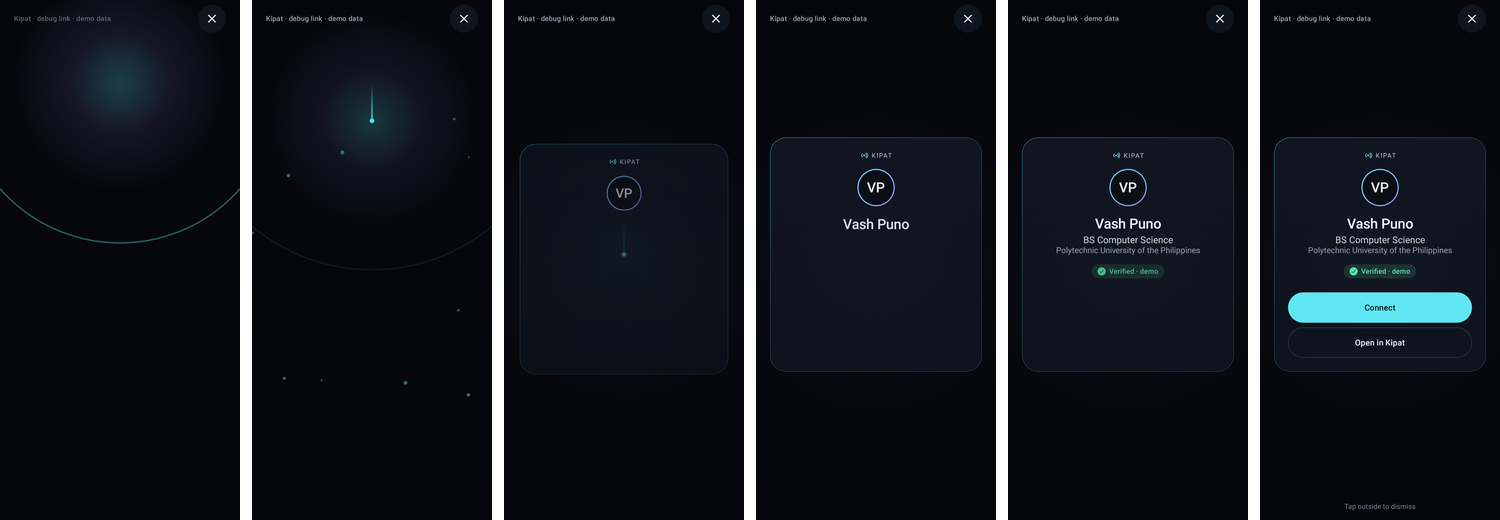
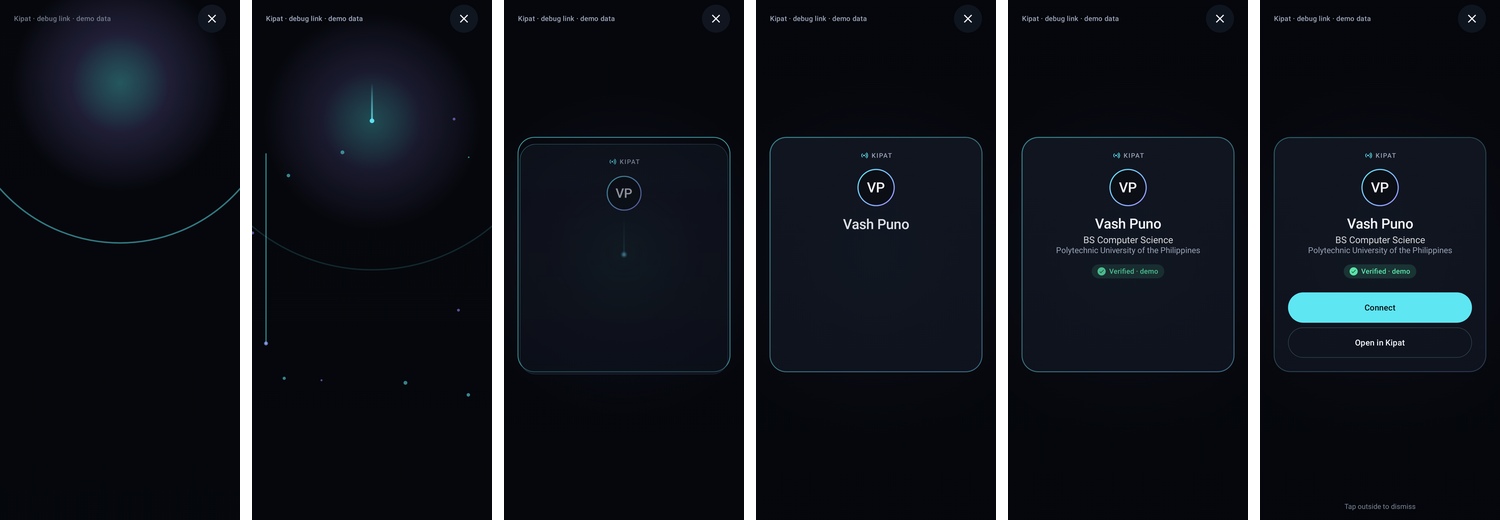
feat(reveal): adopt progressive scrim and outline trace from the reference
The scrim now fades in to 60% and deepens with the card surface, so the
app underneath stays legible at the moment of the tap. Signature traces
the card's final outline with a soft light and bright head before the
glass fills in, reusing the Line Trace primitive via a new
RevealConfig.perimeterTrace (off for reduced motion). Timings stay at
the spec targets. Docs and native render strip updated.

Claude-Session: https://claude.ai/code/session_014gtnW3oi4wPSe5yKbAtHfW

diff --git a/app/src/main/java/com/kipat/probe/reveal/RevealTemplate.kt b/app/src/main/java/com/kipat/probe/reveal/RevealTemplate.kt
@@ -86,6 +86,8 @@ data class RevealConfig(
     val glowStrength: Float,
     val drip: Boolean,
     val surfaceEntrance: SurfaceEntrance,
+    /** Strength (0 = off) of the light that traces the card outline before the glass fills in. */
+    val perimeterTrace: Float = 0f,
 ) {
     companion object {
         const val MAX_PARTICLES = 56
@@ -96,14 +98,14 @@ data class RevealConfig(
                 return RevealConfig(template, RevealTimeline.REDUCED, 0, 0, ParticleMotion.NONE, 0.25f, false, SurfaceEntrance.FADE)
             }
             val base = when (template) {
-                RevealTemplateId.SIGNATURE_DRIP -> RevealConfig(template, RevealTimeline.SIGNATURE, 2, 44, ParticleMotion.CONVERGE, 1f, true, SurfaceEntrance.RISE)
+                RevealTemplateId.SIGNATURE_DRIP -> RevealConfig(template, RevealTimeline.SIGNATURE, 2, 44, ParticleMotion.CONVERGE, 1f, true, SurfaceEntrance.RISE, perimeterTrace = 0.55f)
                 RevealTemplateId.PARTICLE_BLOOM -> RevealConfig(template, RevealTimeline.SIGNATURE, 1, MAX_PARTICLES, ParticleMotion.BLOOM, 0.85f, false, SurfaceEntrance.RISE)
                 RevealTemplateId.MINIMAL_FADE -> RevealConfig(template, RevealTimeline.MINIMAL, 0, 0, ParticleMotion.NONE, 0.35f, false, SurfaceEntrance.FADE)
                 RevealTemplateId.RIPPLE -> RevealConfig(template, RevealTimeline.SIGNATURE, 3, 0, ParticleMotion.NONE, 0.7f, false, SurfaceEntrance.RISE)
                 RevealTemplateId.ORBIT -> RevealConfig(template, RevealTimeline.SIGNATURE, 1, 24, ParticleMotion.ORBIT, 0.8f, false, SurfaceEntrance.RISE)
                 RevealTemplateId.SOFT_GLOW -> RevealConfig(template, RevealTimeline.SIGNATURE, 0, 0, ParticleMotion.NONE, 1f, false, SurfaceEntrance.FADE)
                 RevealTemplateId.LIQUID_LOGO -> RevealConfig(template, RevealTimeline.SIGNATURE, 1, 0, ParticleMotion.NONE, 0.8f, true, SurfaceEntrance.LIQUID)
-                RevealTemplateId.LINE_TRACE -> RevealConfig(template, RevealTimeline.SIGNATURE, 0, 0, ParticleMotion.NONE, 0.5f, false, SurfaceEntrance.TRACE)
+                RevealTemplateId.LINE_TRACE -> RevealConfig(template, RevealTimeline.SIGNATURE, 0, 0, ParticleMotion.NONE, 0.5f, false, SurfaceEntrance.TRACE, perimeterTrace = 0.9f)
                 RevealTemplateId.PIXEL_BUILD -> RevealConfig(template, RevealTimeline.SIGNATURE, 0, 36, ParticleMotion.GRID, 0.5f, false, SurfaceEntrance.FADE)
                 RevealTemplateId.CONSTELLATION -> RevealConfig(template, RevealTimeline.SIGNATURE, 0, 18, ParticleMotion.CONSTELLATION, 0.6f, false, SurfaceEntrance.RISE)
             }

diff --git a/app/src/main/java/com/kipat/probe/reveal/effects/RevealEffects.kt b/app/src/main/java/com/kipat/probe/reveal/effects/RevealEffects.kt
@@ -78,7 +78,7 @@ object RevealEffects {
             ParticleMotion.CONSTELLATION -> drawConstellation(frame, geo, particles, config.particleCount, primary, secondary)
         }
         if (tracePath != null && traceMeasure != null && traceSegment != null) {
-            drawTrace(frame, traceMeasure, traceSegment, primary)
+            drawTrace(frame, config.perimeterTrace, traceMeasure, traceSegment, primary, secondary)
         }
     }
 
@@ -230,14 +230,24 @@ object RevealEffects {
         }
     }
 
-    /** Line Trace: a single stroke traces the card outline. Path objects are reused. */
-    private fun DrawScope.drawTrace(frame: RevealFrame, measure: PathMeasure, segment: Path, color: Color) {
+    /**
+     * Light tracing the card outline (Line Trace, and a softer version in Signature). The bright
+     * head is the "sparkle outline" from the Higgsfield reference. Path objects are reused.
+     */
+    private fun DrawScope.drawTrace(frame: RevealFrame, strength: Float, measure: PathMeasure, segment: Path, primary: Color, secondary: Color) {
         val p = frame.particles.coerceAtLeast(frame.surface)
-        if (p <= 0f) return
+        if (p <= 0f || strength <= 0f) return
+        val alpha = strength * (1f - 0.7f * frame.cta)
+        if (alpha <= 0.01f) return
         segment.reset()
         val len = measure.length
         measure.getSegment(0f, len * p, segment, true)
-        drawPath(segment, color.copy(alpha = 0.9f * (1f - 0.6f * frame.cta)), style = Stroke(width = 2f * density, cap = StrokeCap.Round))
+        drawPath(segment, primary.copy(alpha = alpha), style = Stroke(width = 1.5f * density, cap = StrokeCap.Round))
+        if (p < 1f) {
+            val head = measure.getPosition(len * p)
+            drawCircle(secondary.copy(alpha = alpha), 3.5f * density, head)
+            drawCircle(primary.copy(alpha = alpha), 1.8f * density, head)
+        }
     }
 
     private fun lerp(a: Offset, b: Offset, t: Float) = Offset(a.x + (b.x - a.x) * t, a.y + (b.y - a.y) * t)

diff --git a/app/src/main/java/com/kipat/probe/reveal/RevealScreen.kt b/app/src/main/java/com/kipat/probe/reveal/RevealScreen.kt
@@ -125,9 +125,9 @@ fun RevealScreen(
 
     var cardRect by remember { mutableStateOf<Rect?>(null) }
     val density = LocalDensity.current
-    val trace = remember(cardRect, config.surfaceEntrance) {
+    val trace = remember(cardRect, config.perimeterTrace) {
         val r = cardRect
-        if (config.surfaceEntrance == SurfaceEntrance.TRACE && r != null) {
+        if (config.perimeterTrace > 0f && r != null) {
             val path = Path().apply { addRoundRect(RoundRect(r, CornerRadius(with(density) { 28.dp.toPx() }))) }
             Triple(path, PathMeasure().apply { setPath(path, false) }, Path())
         } else {
@@ -155,7 +155,10 @@ fun RevealScreen(
     ) {
         // Scrim + effects: the previous app stays faintly visible underneath.
         Canvas(Modifier.fillMaxSize()) {
-            val scrim = (elapsedMs / 180f).coerceIn(0f, 1f)
+            // Scrim fades in fast, then deepens as the card resolves, so the app underneath stays
+            // legible at the moment of the tap (adopted from the Higgsfield reference).
+            val settle = RevealEngine.frameAt(elapsedMs, timeline).surface
+            val scrim = (elapsedMs / 180f).coerceIn(0f, 1f) * (0.6f + 0.4f * settle)
             drawRect(Brush.verticalGradient(listOf(palette.scrimTop, palette.scrimBottom)), alpha = scrim)
             val rect = cardRect ?: return@Canvas
             val geo = RevealGeometry(

diff --git a/app/src/test/java/com/kipat/probe/RevealTemplateTest.kt b/app/src/test/java/com/kipat/probe/RevealTemplateTest.kt
@@ -70,7 +70,15 @@ class RevealTemplateTest {
             assertEquals(ParticleMotion.NONE, c.particleMotion)
             assertEquals(SurfaceEntrance.FADE, c.surfaceEntrance)
             assertEquals(RevealTimeline.REDUCED, c.timeline)
+            assertEquals(0f, c.perimeterTrace, 0f)
         }
+    }
+
+    @Test
+    fun signatureTracesTheCardOutline() {
+        assertTrue(RevealConfig.forTemplate(RevealTemplateId.SIGNATURE_DRIP).perimeterTrace > 0f)
+        assertTrue(RevealConfig.forTemplate(RevealTemplateId.LINE_TRACE).perimeterTrace > 0f)
+        assertEquals(0f, RevealConfig.forTemplate(RevealTemplateId.MINIMAL_FADE).perimeterTrace, 0f)
     }
 
     @Test

diff --git a/docs/reveal.md b/docs/reveal.md
@@ -27,7 +27,7 @@ primary/secondary CTA labels, connectable.
 
 | Template | Implementation |
 |---|---|
-| Signature · Drip | **Full** — glow, 2 ripples, drip bead, 44 converging particles, rise entrance |
+| Signature · Drip | **Full** — glow, 2 ripples, drip bead, 44 converging particles, soft outline trace, rise entrance |
 | Particle Bloom | **Full** — outward bloom settling into a halo |
 | Minimal Fade | **Full** — fast fade timeline, no particles |
 | Ripple, Orbit, Soft Glow, Liquid Logo, Line Trace, Pixel Build, Constellation | Parameterised on the same primitives (`RevealConfig`) |
@@ -38,7 +38,7 @@ All templates share `effects/RevealEffects.kt`; there are no per-template engine
 
 | ms | Beat |
 |---|---|
-| 0 | first frame: scrim, glow, ripple; start haptic |
+| 0 | first frame: scrim (60%, deepening as the card resolves), glow, ripple; start haptic |
 | 200 | glow peak, particles begin |
 | 600 | card surface + avatar |
 | 900 | name |

diff --git a/README.md b/README.md
@@ -79,10 +79,10 @@ More: [`docs/architecture.md`](docs/architecture.md).
 
 ## Design references (Higgsfield)
 
-Prompts, the credit-guarded generation script and implementation notes are in
-[`design/higgsfield/`](design/higgsfield/). **No Higgsfield generation has been run yet** — the
-CLI login could not be completed from the cloud build container. The Reveal was built natively
-from the written brief; Higgsfield output is art direction only and is never the runtime.
+[`design/higgsfield/`](design/higgsfield/) holds the brief, exact prompts, the credit-guarded
+script, the generated reference stills (2 keyframes + one 4 s Seedance clip, 4 credits) and what
+was adopted or rejected. Two ideas from the clip — a progressive scrim and a card-outline trace —
+are now in the native Signature Reveal. Higgsfield output is art direction only, never the runtime.
 
 ## Known limitation: backdrop varies by device
 
